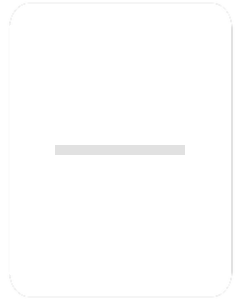
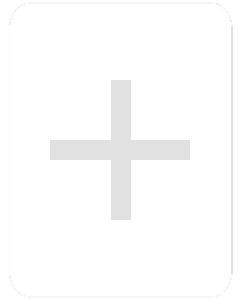
Improve cards presentation

Changed region(s): [[0.2042, 0.24, 0.8167, 0.75]]

diff --git a/app/src/main/java/app/blef/blef/Game.kt b/app/src/main/java/app/blef/blef/Game.kt
@@ -160,10 +160,9 @@ class Game : AppCompatActivity() {
         val mHandler = Handler(Looper.getMainLooper())
         val client = OkHttpClient()
         val baseUrl = "https://n4p6oovxsg.execute-api.eu-west-2.amazonaws.com/games"
-        val cardSizeHTML = "width=\"24%\""
 
-        val emptyCardHTML = "<img src=\"cardEmpty.png\" $cardSizeHTML>"
-        val questionCardHTML = "<img src=\"cardQuestion.png\" $cardSizeHTML>"
+        val emptyCardHTML = "<img class=\"emptyCard\" src=\"cardEmpty2.png\">"
+        val questionCardHTML = "<img class=\"questionCard\" src=\"cardQuestion.png\">"
 
         fun updateGame() {
             val queryUrl = baseUrl + if (playerUuid != null)  "/$gameUuid?player_uuid=$playerUuid" else "/$gameUuid"
@@ -413,7 +412,7 @@ class Game : AppCompatActivity() {
             val sortedList = cardsList.sortedWith(compareBy({ -it.value }, { -it.suit }))
             for (j in 0 until max) {
                 if (j < sortedList.size) {
-                    cardsData = cardsData.plus("<img src=\"cards/cropped/${sortedList[j].value}${sortedList[j].suit}.png\" $cardSizeHTML>")
+                    cardsData = cardsData.plus("<img class=\"openCard\" src=\"cards/cropped/${sortedList[j].value}${sortedList[j].suit}.png\">")
                 } else {
                     cardsData = cardsData.plus(emptyCardHTML)
                 }

diff --git a/app/src/main/assets/card_table_style.css b/app/src/main/assets/card_table_style.css
@@ -21,7 +21,13 @@ table.halfTable td{
 }
 
 img {
-    border: 0.225vw;
+    margin: 0.22vw;
+    width: 10.8vw;
+    height: 13.5vw;
+}
+
+img.emptyCard {
+    opacity: 30%;
 }
 
 table.fullTable img {
